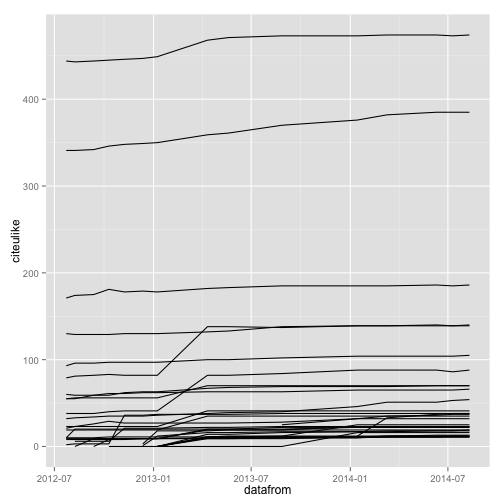
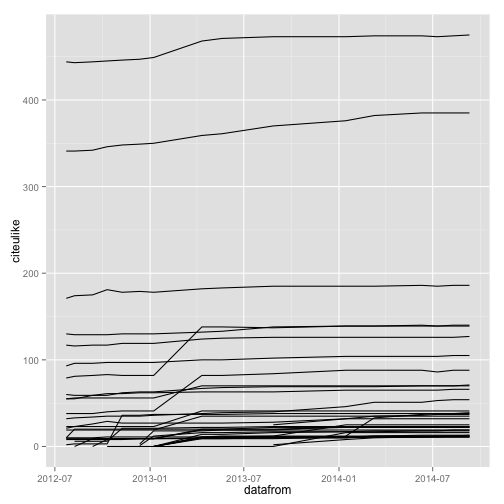
new monthly report, with slope comparisons, now includes seprtember data

diff --git a/monthly/monthlyreports.md b/monthly/monthlyreports.md
@@ -7,9 +7,8 @@ If the below packages are not installed already, then load package
 
 
 ```r
-# install.packages(c('data.table','dplyr','stringr','tidyr'))
+# install.packages(c('dplyr','stringr','tidyr'))
 # devtools::install_github("ropensci/alm", ref="alerts")
-library('data.table')
 library('dplyr')
 library('stringr')
 library('alm')
@@ -19,24 +18,25 @@ library('tidyr')
 
 ## Read in data
 
-PLOS folks, Monthly reports are in a Google Drive folder, talk to Martin
+PLOS folks, Monthly reports are in a Google Drive folder, talk to Martin if you want access
 
 
 ```r
+dir <- getwd()
 setwd("~/Google Drive/ALM Monthly Reports/")
 files <- list.files(".", pattern = ".csv")
 read_file <- function(x){
   tmp <- read.csv(x, header = TRUE, sep = ",", stringsAsFactors=FALSE)
   tmp$datafrom <- as.Date(str_extract(x, "[0-9]{4}-[0-9]{2}-[0-9]{2}"), "%Y-%m-%d")
   tmp
-}
+  }
 dat <- lapply(files, read_file)
 alldat <- rbind_all(dat)
 (dat2 <- tbl_df(alldat))
 ```
 
 ```
-## Source: local data frame [1,271,304 x 48]
+## Source: local data frame [1,403,224 x 48]
 ## 
 ##                             doi  published
 ## 1  10.1371/journal.pbio.0000001 2003-10-13
@@ -64,6 +64,10 @@ alldat <- rbind_all(dat)
 ##   (int), articlecoverage (int), plos_comments (int), relativemetric (int)
 ```
 
+```r
+setwd(dir)
+```
+
 ## Data cleaning
 
 
@@ -71,12 +75,12 @@ alldat <- rbind_all(dat)
 # new column with date for each row, drop other pub date columns
 # and move title to end for easier viewing
 (dat2 <- dat2 %>%
-  mutate(pubdate = published[1], title2 = title) %>%
-  select(-published, -publication_date, -title))
+   mutate(pubdate = published[1], title2 = title) %>%
+   select(-published, -publication_date, -title))
 ```
 
 ```
-## Source: local data frame [1,271,304 x 47]
+## Source: local data frame [1,403,224 x 47]
 ## 
 ##                             doi bloglines citeulike connotea crossref
 ## 1  10.1371/journal.pbio.0000001         0         0        0        9
@@ -106,11 +110,11 @@ alldat <- rbind_all(dat)
 ```r
 # remove negative numbers in facebook
 (dat2 <- dat2 %>%
-  filter(facebook >= 0))
+   filter(facebook >= 0))
 ```
 
 ```
-## Source: local data frame [1,271,200 x 47]
+## Source: local data frame [1,403,120 x 47]
 ## 
 ##                             doi bloglines citeulike connotea crossref
 ## 1  10.1371/journal.pbio.0000001         0         0        0        9
@@ -141,11 +145,11 @@ alldat <- rbind_all(dat)
 # remove annotation DOIs - NOTE: if you want these, don't run this next few lines of code
 annot <- dat2 %>% filter(grepl('annotation', doi)) %>% select(doi)
 (dat2 <- dat2 %>% 
-  filter(!doi %in% annot$doi))
+   filter(!doi %in% annot$doi))
 ```
 
 ```
-## Source: local data frame [1,256,636 x 47]
+## Source: local data frame [1,384,915 x 47]
 ## 
 ##                             doi bloglines citeulike connotea crossref
 ## 1  10.1371/journal.pbio.0000001         0         0        0        9
@@ -186,7 +190,7 @@ citeu_dois <- dat2 %>%
   group_by(doi) %>% 
   summarise(
     diff = max(citeulike) - min(citeulike)
-  ) %>% 
+    ) %>% 
   filter(diff > 10) %>% 
   select(doi)
 
@@ -209,7 +213,7 @@ mendeley_dois <-  dat2 %>%
   group_by(doi) %>% 
   summarise(
     diff = max(mendeley, na.rm = TRUE) - min(mendeley, na.rm = TRUE)
-  ) %>% 
+    ) %>% 
   filter(diff > 90) %>%
   select(doi)
 
@@ -221,10 +225,25 @@ dat2 %>%
 ```
 
 ```
-## Warning: Removed 1162 rows containing missing values (geom_path).
+## Warning: Removed 1290 rows containing missing values (geom_path).
 ```
 
-![plot of chunk unnamed-chunk-5](figure/unnamed-chunk-5.png) 
+![plot of chunk unnamed-chunk-5](figure/unnamed-chunk-51.png) 
+
+```r
+# Visualize data - without outliers
+outliers <- unique(dat2 %>% filter(mendeley > 5000) %>% select(doi))$doi
+dat2 %>%
+  select(doi, datafrom, mendeley) %>%
+  filter(doi %in% mendeley_dois$doi, !doi %in% outliers) %>% 
+  ggplot(aes(datafrom, mendeley, group=doi)) + geom_line()
+```
+
+```
+## Warning: Removed 1288 rows containing missing values (geom_path).
+```
+
+![plot of chunk unnamed-chunk-5](figure/unnamed-chunk-52.png) 
 
 ## Across metrics
 
@@ -233,9 +252,15 @@ Compare different metrics across the same DOIs in one time slice
 
 ```r
 # remove last three dates as they don't have counter_pdf or counter_html data
-dat2 %>% 
+norecent_counter <- dat2 %>% 
   select(doi, datafrom, contains('counter')) %>% 
-  filter(!as.character(datafrom) %in% c('2014-06-10','2014-07-10',"2014-08-10")) %>%
+  filter(!as.character(datafrom) %in% c('2014-06-10','2014-07-10',"2014-08-10","2014-09-10"))
+```
+
+
+
+```r
+norecent_counter %>% 
   ggplot(aes(log10(counter_html+1), log10(counter_pdf+1))) + geom_point() + facet_wrap(~ datafrom)
 ```
 
@@ -243,4 +268,32 @@ dat2 %>%
 ## Warning: Removed 4 rows containing missing values (geom_point).
 ```
 
-![plot of chunk unnamed-chunk-6](figure/unnamed-chunk-6.png) 
+![plot of chunk unnamed-chunk-7](figure/unnamed-chunk-7.png) 
+
+Do slopes through time differ?
+
+
+```r
+# remove last three dates as they don't have counter_pdf or counter_html data
+# calculate slopes, define function to get slope and confidence interval first
+get_coef <- function(x){
+  tmp <- lm(counter_pdf ~ counter_html, data = x)
+  df <- data.frame(datafrom=x$datafrom[1], slope=coefficients(tmp)[['counter_html']], t(confint(tmp)[2,]), stringsAsFactors = FALSE)
+  names(df)[3:4] <- c('low','high')
+  df
+  }
+
+res <- norecent_counter %>% 
+  group_by(datafrom) %>%
+  do(out = get_coef(.))
+df <- res$out %>% rbind_all
+
+df %>%
+  ggplot(aes(datafrom, slope)) + 
+  geom_point(aes(size=4)) + 
+  theme_grey(20) + 
+  theme(legend.position="none") + 
+  labs(y="Slope of html to pdf views\n")
+```
+
+![plot of chunk unnamed-chunk-8](figure/unnamed-chunk-8.png) 
